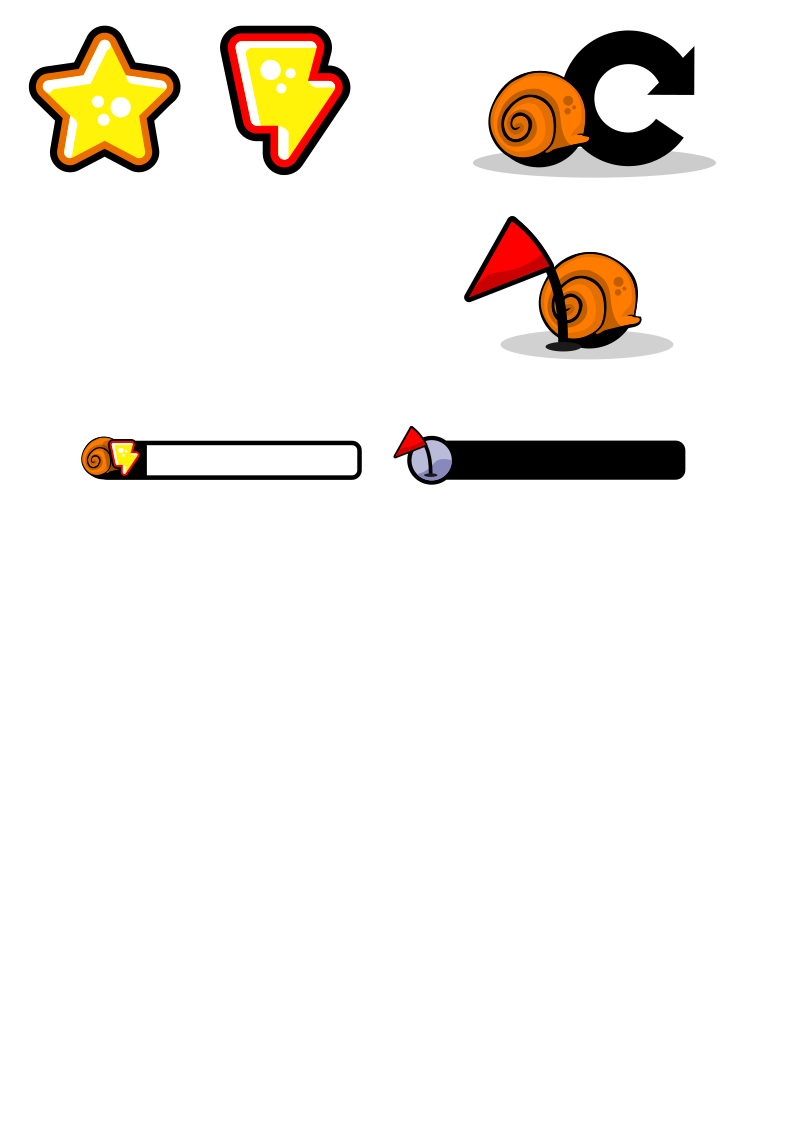
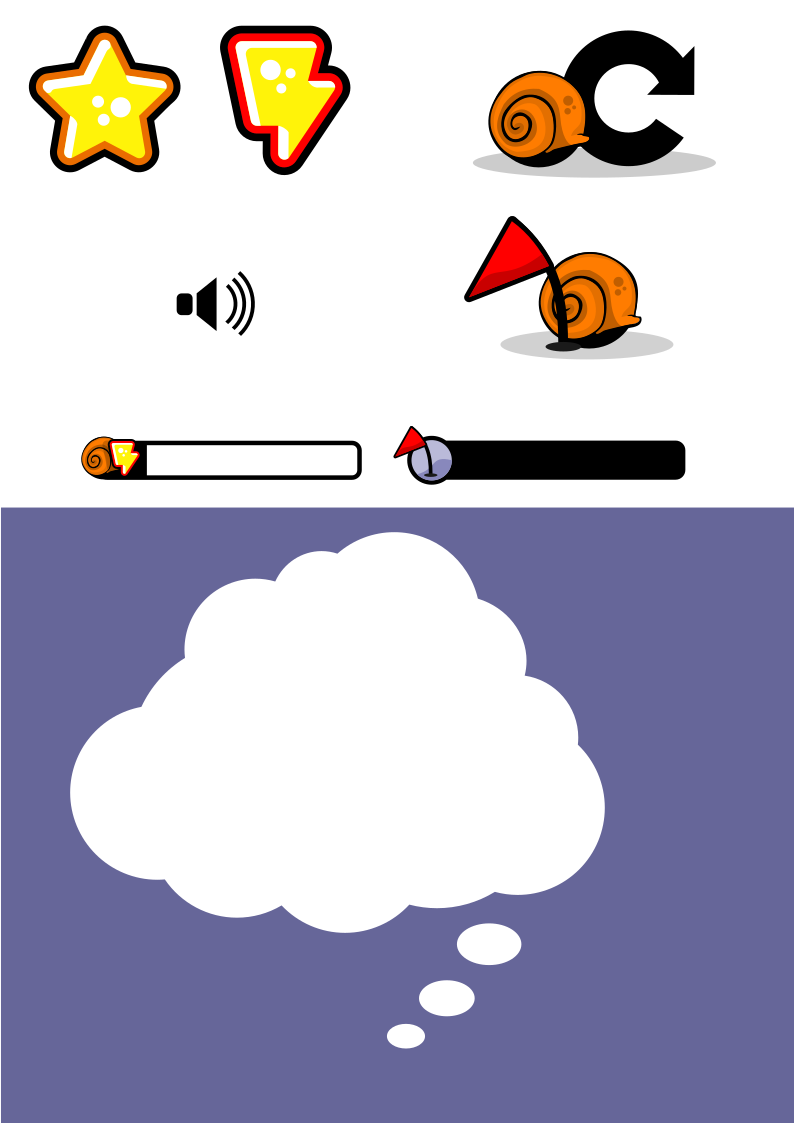
feat: add mute button

diff --git a/src/sim/InputController.js b/src/sim/InputController.js
@@ -6,8 +6,11 @@ export default class InputController extends EventEmitter {
     this.doc = doc
     this._snail = null
     this._world = null
+    this._view = null
     this.gameOverHandler = this.onGameOver.bind(this)
     this.replayPromptHandler = this.onReplayPrompt.bind(this)
+    this.pointerDownHandler = this.activate.bind(this)
+    this.pointerUpHandler = this.deactivate.bind(this)
     this.gameOver = false;
     this.splash = true;
     this.replayPrompt = false;
@@ -27,6 +30,21 @@ export default class InputController extends EventEmitter {
     return this._world
   }
 
+  get view() {
+    return this._view
+  }
+
+  set view(view) {
+    if(this._view) {
+      this._view.off('pointerdown', this.pointerDownHandler)
+      this._view.off('pointerup', this.pointerUpHandler)
+    }
+    this._view = view
+    this._view.interactive = true
+    this._view.on('pointerdown', this.pointerDownHandler)
+    this._view.on('pointerup', this.pointerUpHandler)
+  }
+
   init() {
     this.doc.addEventListener('keydown', (e) => {
       if(e.code.toLocaleLowerCase() === 'space') {
@@ -38,22 +56,23 @@ export default class InputController extends EventEmitter {
         this.deactivate()
       }
     });
-
-    this.doc.addEventListener('mousedown', () => this.activate())
-    this.doc.addEventListener('mouseup', () => this.deactivate())
-    this.doc.addEventListener('touchstart', () => this.activate())
-    this.doc.addEventListener('touchend', () => this.deactivate())
   
     this.doc.body.focus()
   }
 
-  activate() {
+  activate(e) {
+    if(e && e.y < 60) {
+      return
+    }
     if(this._snail && !this.splash && !this.gameOver && !this._world.infoActive) {
       this._snail.run = true
     }
   }
 
-  deactivate() {
+  deactivate(e) {
+    if(e && e.y < 60) {
+      return
+    }
     if(this.splash) {
       this.splash = false
       this.emit('start')

diff --git a/src/view/SoundSwitch.js b/src/view/SoundSwitch.js
@@ -1,0 +1,51 @@
+import { Graphics, Sprite } from "pixi.js";
+
+export default class SoundSwitch extends Sprite {
+
+  constructor() {
+    super()
+    this.container = new Sprite()
+    this.container.interactive = true
+    this.addChild(this.container)
+    this.bg = new Graphics()
+    this.bg.beginFill(0xffffff, 0.000001)
+    this.bg.drawCircle(0, 0, 50)
+    this.container.addChild(this.bg)
+    this.button = Sprite.from('sound.png')
+    this.button.anchor.set(0.5, 0.5)
+    this.button.scale.set(0.6)
+    this.container.addChild(this.button)
+
+    this._buttonMask = new Graphics()
+    this._buttonMask.beginFill(0x000000)
+    this._buttonMask.drawRect(-30, -25, 32, 50)
+
+    this.addChild(this._buttonMask)
+    this._buttonMask.visible = false
+
+    this._on = true
+    this.on = true
+
+    this.container.on('pointerdown', (e) => {
+      e.stopPropagation()
+      this.on = !this.on
+    })
+    this.container.on('pointerup', (e) => {
+      e.stopPropagation()
+    })
+  }
+
+  get on() {
+    return this._on
+  }
+
+  set on(value) {
+    this._on = value
+    this._buttonMask.visible = !value
+    this.button.mask = value ? null : this._buttonMask
+    Howler.mute(!value)
+  }
+
+
+
+}

diff --git a/src/view/WorldView.js b/src/view/WorldView.js
@@ -8,6 +8,7 @@ import SnailView from "./SnailView";
 import GroundView from "./ground/GroundView";
 import Tutorial from "./Tutorial";
 import InfoScreen from "./InfoScreen";
+import SoundSwitch from "./SoundSwitch";
 
 export default class WorldView extends View {
   
@@ -50,6 +51,9 @@ export default class WorldView extends View {
       this.infoScreen = new InfoScreen()
       this.addChild(this.infoScreen)
     }
+
+    this.soundSwitch = new SoundSwitch()
+    this.addChild(this.soundSwitch)
   }
 
   set zoom(factor) {
@@ -78,6 +82,8 @@ export default class WorldView extends View {
       this.removeChild(this.infoScreen)
       this.infoScreen = null
     }
+    this.soundSwitch.x = width - 40
+    this.soundSwitch.y = 30
     if(this.tutorial && !this.infoScreen) {
       this.tutorial.visible = true
       this.tutorial.y = height - 180

diff --git a/src/index.js b/src/index.js
@@ -65,6 +65,7 @@ document.addEventListener("DOMContentLoaded", (event) => {
     app = pixiApp
     worldView = view
     controller.world = world
+    controller.view = worldView
   })
   controller.on("start", () => {
     if(world) {
@@ -78,6 +79,7 @@ document.addEventListener("DOMContentLoaded", (event) => {
     app = pixiApp
     worldView = view
     controller.world = world
+    controller.view = worldView
   })
 
   
@@ -85,6 +87,7 @@ document.addEventListener("DOMContentLoaded", (event) => {
   app = createPixiApp(() => {
     splash.update(app.renderer.width, app.renderer.height)
   })
+  controller.view = splash
   app.stage.addChild(splash)
   
 })
